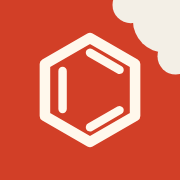
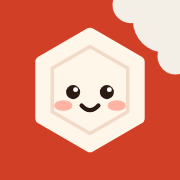
한 입 화학: 홈 화면 앱 시작 표지(마스코트), 새 아이콘, 앱에서는 아래 설명 숨김
Claude-Session: https://claude.ai/code/session_01FSv1mKLmVygHAksdFmExYr

Changed region(s): [[0.2778, 0.25, 0.7222, 0.75], [0.1944, 0.1389, 0.8056, 0.8611]]

diff --git a/public/chem/index.html b/public/chem/index.html
@@ -14,20 +14,35 @@
 <meta name="mobile-web-app-capable" content="yes">
 <meta name="apple-mobile-web-app-status-bar-style" content="default">
 <meta name="apple-mobile-web-app-title" content="한 입 화학">
+<script>
+(function(){var d=document.documentElement,s=false;try{s=window.navigator.standalone||matchMedia('(display-mode: standalone)').matches||matchMedia('(display-mode: fullscreen)').matches;}catch(e){}
+if(s){d.classList.add('standalone');try{if(!sessionStorage.getItem('hanip_cov')){d.classList.add('cov');sessionStorage.setItem('hanip_cov','1');}}catch(e){d.classList.add('cov');}}})();
+</script>
+<link rel="apple-touch-startup-image" media="screen and (device-width: 430px) and (device-height: 932px) and (-webkit-device-pixel-ratio: 3) and (orientation: portrait)" href="splash-1290x2796.png">
+<link rel="apple-touch-startup-image" media="screen and (device-width: 393px) and (device-height: 852px) and (-webkit-device-pixel-ratio: 3) and (orientation: portrait)" href="splash-1179x2556.png">
+<link rel="apple-touch-startup-image" media="screen and (device-width: 428px) and (device-height: 926px) and (-webkit-device-pixel-ratio: 3) and (orientation: portrait)" href="splash-1284x2778.png">
+<link rel="apple-touch-startup-image" media="screen and (device-width: 390px) and (device-height: 844px) and (-webkit-device-pixel-ratio: 3) and (orientation: portrait)" href="splash-1170x2532.png">
+<link rel="apple-touch-startup-image" media="screen and (device-width: 375px) and (device-height: 812px) and (-webkit-device-pixel-ratio: 3) and (orientation: portrait)" href="splash-1125x2436.png">
+<link rel="apple-touch-startup-image" media="screen and (device-width: 414px) and (device-height: 896px) and (-webkit-device-pixel-ratio: 3) and (orientation: portrait)" href="splash-1242x2688.png">
+<link rel="apple-touch-startup-image" media="screen and (device-width: 414px) and (device-height: 896px) and (-webkit-device-pixel-ratio: 2) and (orientation: portrait)" href="splash-828x1792.png">
+<link rel="apple-touch-startup-image" media="screen and (device-width: 375px) and (device-height: 667px) and (-webkit-device-pixel-ratio: 2) and (orientation: portrait)" href="splash-750x1334.png">
+<link rel="apple-touch-startup-image" media="screen and (device-width: 414px) and (device-height: 736px) and (-webkit-device-pixel-ratio: 3) and (orientation: portrait)" href="splash-1242x2208.png">
+<link rel="apple-touch-startup-image" media="screen and (device-width: 360px) and (device-height: 780px) and (-webkit-device-pixel-ratio: 3) and (orientation: portrait)" href="splash-1080x2340.png">
 <link rel="preload" href="font.woff2" as="font" type="font/woff2" crossorigin>
-<link rel="stylesheet" href="app.css?v=6">
+<link rel="stylesheet" href="app.css?v=7">
 </head>
 <body>
+<div id="cover" aria-hidden="true"><div class="cv-in"><svg class="mascot" viewBox="0 0 240 240" aria-hidden="true"><defs><mask id="mbite"><rect width="240" height="240" fill="#fff"/><circle cx="194" cy="56" r="25" fill="#000"/><circle cx="174" cy="40" r="13" fill="#000"/><circle cx="208" cy="78" r="13" fill="#000"/></mask></defs><g class="m-atoms"><g class="m-at a1"><line x1="34" y1="54" x2="54" y2="70" stroke="#D9C9B5" stroke-width="4" stroke-linecap="round"/><circle cx="24" cy="44" r="14" fill="#FFF6EA" stroke="#E5D3BF" stroke-width="2.5"/><text x="24" y="49.5" text-anchor="middle" font-size="15" font-weight="800" fill="#6B5A4C" font-family="P,sans-serif">H</text></g><g class="m-at a2"><line x1="206" y1="186" x2="186" y2="170" stroke="#D9C9B5" stroke-width="4" stroke-linecap="round"/><circle cx="216" cy="196" r="14" fill="#FFF6EA" stroke="#E5D3BF" stroke-width="2.5"/><text x="216" y="201.5" text-anchor="middle" font-size="15" font-weight="800" fill="#6B5A4C" font-family="P,sans-serif">H</text></g><g class="m-at a3"><line x1="36" y1="188" x2="54" y2="172" stroke="#D9C9B5" stroke-width="4" stroke-linecap="round"/><circle cx="24" cy="198" r="14" fill="#FFF6EA" stroke="#E5D3BF" stroke-width="2.5"/><text x="24" y="203.5" text-anchor="middle" font-size="15" font-weight="800" fill="#2B58C9" font-family="P,sans-serif">O</text></g></g><g class="m-crumbs"><circle cx="214" cy="34" r="4" fill="#D23F27"/><circle cx="226" cy="52" r="3" fill="#D23F27"/><circle cx="204" cy="22" r="2.5" fill="#D23F27"/></g><g class="m-body"><path d="M120 40l70 40.5v81L120 202l-70-40.5v-81z" fill="#D23F27" stroke="#D23F27" stroke-width="24" stroke-linejoin="round" mask="url(#mbite)"/><path d="M120 62l51 29.5v59L120 180l-51-29.5v-59z" fill="none" stroke="#E86A50" stroke-width="4" stroke-linejoin="round" mask="url(#mbite)"/><ellipse cx="82" cy="142" rx="13" ry="7.5" fill="#FF9F8B"/><ellipse cx="158" cy="142" rx="13" ry="7.5" fill="#FF9F8B"/><g class="m-eyes"><circle cx="98" cy="122" r="10" fill="#2C1A14"/><circle cx="142" cy="122" r="10" fill="#2C1A14"/><circle cx="101.5" cy="118.5" r="3.6" fill="#fff"/><circle cx="145.5" cy="118.5" r="3.6" fill="#fff"/></g><path d="M109 142q11 12 22 0" fill="none" stroke="#2C1A14" stroke-width="6" stroke-linecap="round"/></g></svg><b>한 입 화학</b><small>화학 반응의 세계 · 틈날 때 한 입씩</small></div></div>
 <div id="app"></div>
 <div id="fx" aria-hidden="true"></div>
 <svg width="0" height="0" style="position:absolute" aria-hidden="true"><defs><marker id="ah" viewBox="0 0 10 10" refX="8" refY="5" markerWidth="7" markerHeight="7" orient="auto-start-reverse"><path d="M1 1L9 5L1 9" fill="none" stroke="context-stroke" stroke-width="1.6" stroke-linecap="round" stroke-linejoin="round" class="ahp"/></marker></defs></svg>
 <noscript>자바스크립트를 켜야 쓸 수 있어요.</noscript>
-<script src="mol.js?v=6"></script>
-<script src="fig.js?v=6"></script>
-<script src="data.js?v=6"></script>
-<script src="ws.js?v=6"></script>
-<script src="ppt.js?v=6"></script>
-<script src="trip.js?v=6"></script>
-<script src="app.js?v=6"></script>
+<script src="mol.js?v=7"></script>
+<script src="fig.js?v=7"></script>
+<script src="data.js?v=7"></script>
+<script src="ws.js?v=7"></script>
+<script src="ppt.js?v=7"></script>
+<script src="trip.js?v=7"></script>
+<script src="app.js?v=7"></script>
 </body>
 </html>

diff --git a/public/chem/app.js b/public/chem/app.js
@@ -356,10 +356,10 @@
     return lines[seed % lines.length];
   }
   function logoSvg() {
-    return '<svg viewBox="0 0 48 48" aria-hidden="true"><defs><mask id="bite"><rect width="48" height="48" fill="#fff"/><circle cx="44" cy="6" r="9" fill="#000"/><circle cx="35" cy="2" r="5" fill="#000"/><circle cx="47" cy="15" r="5" fill="#000"/></mask></defs><rect width="48" height="48" rx="12" class="lg-bg" mask="url(#bite)"/><path class="lg-hex" d="M24 10l12.1 7v14L24 38l-12.1-7V17z"/><path class="lg-in" d="M17 19.3v9.4M24 34.2l8.1-4.7M24 13.8l8.1 4.7"/></svg>';
+    return '<svg viewBox="0 0 512 512" aria-hidden="true"><defs><mask id="lgb"><rect width="512" height="512" fill="#fff"/><circle cx="470" cy="58" r="92" fill="#000"/><circle cx="372" cy="14" r="52" fill="#000"/><circle cx="500" cy="160" r="52" fill="#000"/></mask></defs><rect width="512" height="512" rx="120" fill="#D23F27" mask="url(#lgb)"/><path d="M256 96l138.6 80v160L256 416l-138.6-80V176z" fill="#FFF6EA" stroke="#FFF6EA" stroke-width="34" stroke-linejoin="round"/><ellipse cx="180" cy="300" rx="26" ry="15" fill="#FFB3A3"/><ellipse cx="332" cy="300" rx="26" ry="15" fill="#FFB3A3"/><circle cx="208" cy="262" r="22" fill="#2C1A14"/><circle cx="304" cy="262" r="22" fill="#2C1A14"/><path d="M230 302q26 28 52 0" fill="none" stroke="#2C1A14" stroke-width="14" stroke-linecap="round"/></svg>';
   }
   function installTip() {
-    var standalone = window.navigator.standalone || (window.matchMedia && matchMedia('(display-mode: standalone)').matches);
+    var standalone = document.documentElement.classList.contains('standalone') || window.navigator.standalone || (window.matchMedia && matchMedia('(display-mode: standalone)').matches);
     if (standalone || S.tip >= 2) return '';
     var ios = /iphone|ipad|ipod/i.test(navigator.userAgent);
     return '<section class="tipcard card"><b>앱처럼 쓰기</b><p>' + (ios ? 'Safari 아래 공유 단추 → <b>홈 화면에 추가</b>를 누르면 인터넷이 없어도 열려요.' : '브라우저 메뉴에서 <b>홈 화면에 추가</b>(앱 설치)를 누르면 인터넷이 없어도 열려요.') + '</p><button class="tbtn" data-act="tipx">알겠어요</button></section>';
@@ -1241,6 +1241,13 @@
   var first = history.state && history.state.name && history.state.name !== 'quiz' && history.state.name !== 'result' && history.state.name !== 'boltrun' && history.state.name !== 'boltres' ? history.state : { name: 'home' };
   try { history.replaceState(first, ''); } catch (e) { }
   show(first);
+  // 홈 화면 앱 시작 표지: 잠깐 보여 주고 사라짐, 누르면 바로 넘어감
+  (function () {
+    var cv = document.getElementById('cover'); if (!cv || !document.documentElement.classList.contains('cov')) return;
+    function hide() { if (cv.classList.contains('out')) return; cv.classList.add('out'); setTimeout(function () { document.documentElement.classList.remove('cov'); }, 480); }
+    cv.addEventListener('click', hide);
+    setTimeout(hide, reduced ? 500 : 1500);
+  })();
   if ('serviceWorker' in navigator && (location.protocol === 'https:' || location.hostname === 'localhost')) {
     window.addEventListener('load', function () {
       // 같은 사이트의 플래너 서비스 워커가 이 화면을 대신 저장했으면 플래너 화면을 다시 받아 둔다(예전 판 플래너)

diff --git a/public/chem/app.css b/public/chem/app.css
@@ -605,3 +605,23 @@ sub,sup{font-size:.68em;line-height:0}
 .qws.ppt{background:var(--amber-s);color:var(--amber)}
 .resetlink{display:flex;align-items:center;gap:6px;margin:18px auto 0;min-height:44px;padding:0 14px;color:var(--ink3);font-size:.84rem;font-weight:600}
 .resetlink .ic{width:16px;height:16px}
+
+/* 홈 화면 앱: 시작 표지, 아래 설명 숨김 */
+html.standalone .foot,html.standalone .tipcard{display:none}
+#cover{display:none}
+html.cov #cover{display:flex;position:fixed;inset:0;z-index:200;align-items:center;justify-content:center;background:#F3EFE6;background-image:radial-gradient(#E2D9C6 1.4px,transparent 1.6px);background-size:26px 26px;transition:opacity .45s ease,transform .45s ease}
+html.cov #cover.out{opacity:0;transform:scale(1.04);pointer-events:none}
+.cv-in{display:flex;flex-direction:column;align-items:center;transform:translateY(-4%)}
+.cv-in .mascot{width:46vw;max-width:260px;height:auto;overflow:visible}
+.cv-in b{margin-top:6vw;font-size:min(9vw,46px);letter-spacing:-.04em;color:#1D1B17;font-weight:800}
+.cv-in small{margin-top:1.6vw;font-size:min(4vw,20px);color:#8A8273;font-weight:600}
+html.cov .m-body{transform-origin:120px 200px;animation:cvpop .7s cubic-bezier(.3,1.6,.5,1) both}
+html.cov .m-eyes{transform-origin:120px 122px;animation:cvblink 1.6s .5s ease-in-out}
+html.cov .m-at{transform-box:fill-box;transform-origin:center;animation:cvat .6s cubic-bezier(.3,1.6,.5,1) both}
+html.cov .a1{animation-delay:.25s}html.cov .a2{animation-delay:.35s}html.cov .a3{animation-delay:.45s}
+html.cov .m-crumbs circle{animation:cvcrumb .8s .55s ease-out both}
+html.cov .cv-in b,html.cov .cv-in small{animation:lin .6s .35s var(--ease) both}
+@keyframes cvpop{from{transform:scale(.4) translateY(20px);opacity:0}}
+@keyframes cvblink{0%,40%,50%,100%{transform:scaleY(1)}45%{transform:scaleY(.1)}}
+@keyframes cvat{from{transform:scale(0)}}
+@keyframes cvcrumb{from{transform:translate(-14px,14px);opacity:0}}

diff --git a/public/chem/sw.js b/public/chem/sw.js
@@ -1,6 +1,6 @@
 /* 한 입 화학: 인터넷이 없어도 열리게. 파일을 바꾸면 V를 올린다. */
-var V = 'hanip-chem-6';
-var FILES = ['./', 'index.html', 'app.css?v=6', 'mol.js?v=6', 'fig.js?v=6', 'data.js?v=6', 'ws.js?v=6', 'ppt.js?v=6', 'trip.js?v=6', 'app.js?v=6', 'font.woff2', 'manifest.webmanifest', 'icon.svg', 'icon-180.png', 'icon-192.png', 'icon-512.png', 'icon-maskable.png'];
+var V = 'hanip-chem-7';
+var FILES = ['./', 'index.html', 'app.css?v=7', 'mol.js?v=7', 'fig.js?v=7', 'data.js?v=7', 'ws.js?v=7', 'ppt.js?v=7', 'trip.js?v=7', 'app.js?v=7', 'font.woff2', 'manifest.webmanifest', 'icon.svg', 'icon-180.png', 'icon-192.png', 'icon-512.png', 'icon-maskable.png'];
 self.addEventListener('install', function (e) {
   e.waitUntil(caches.open(V).then(function (c) { return c.addAll(FILES); }));
   self.skipWaiting();
